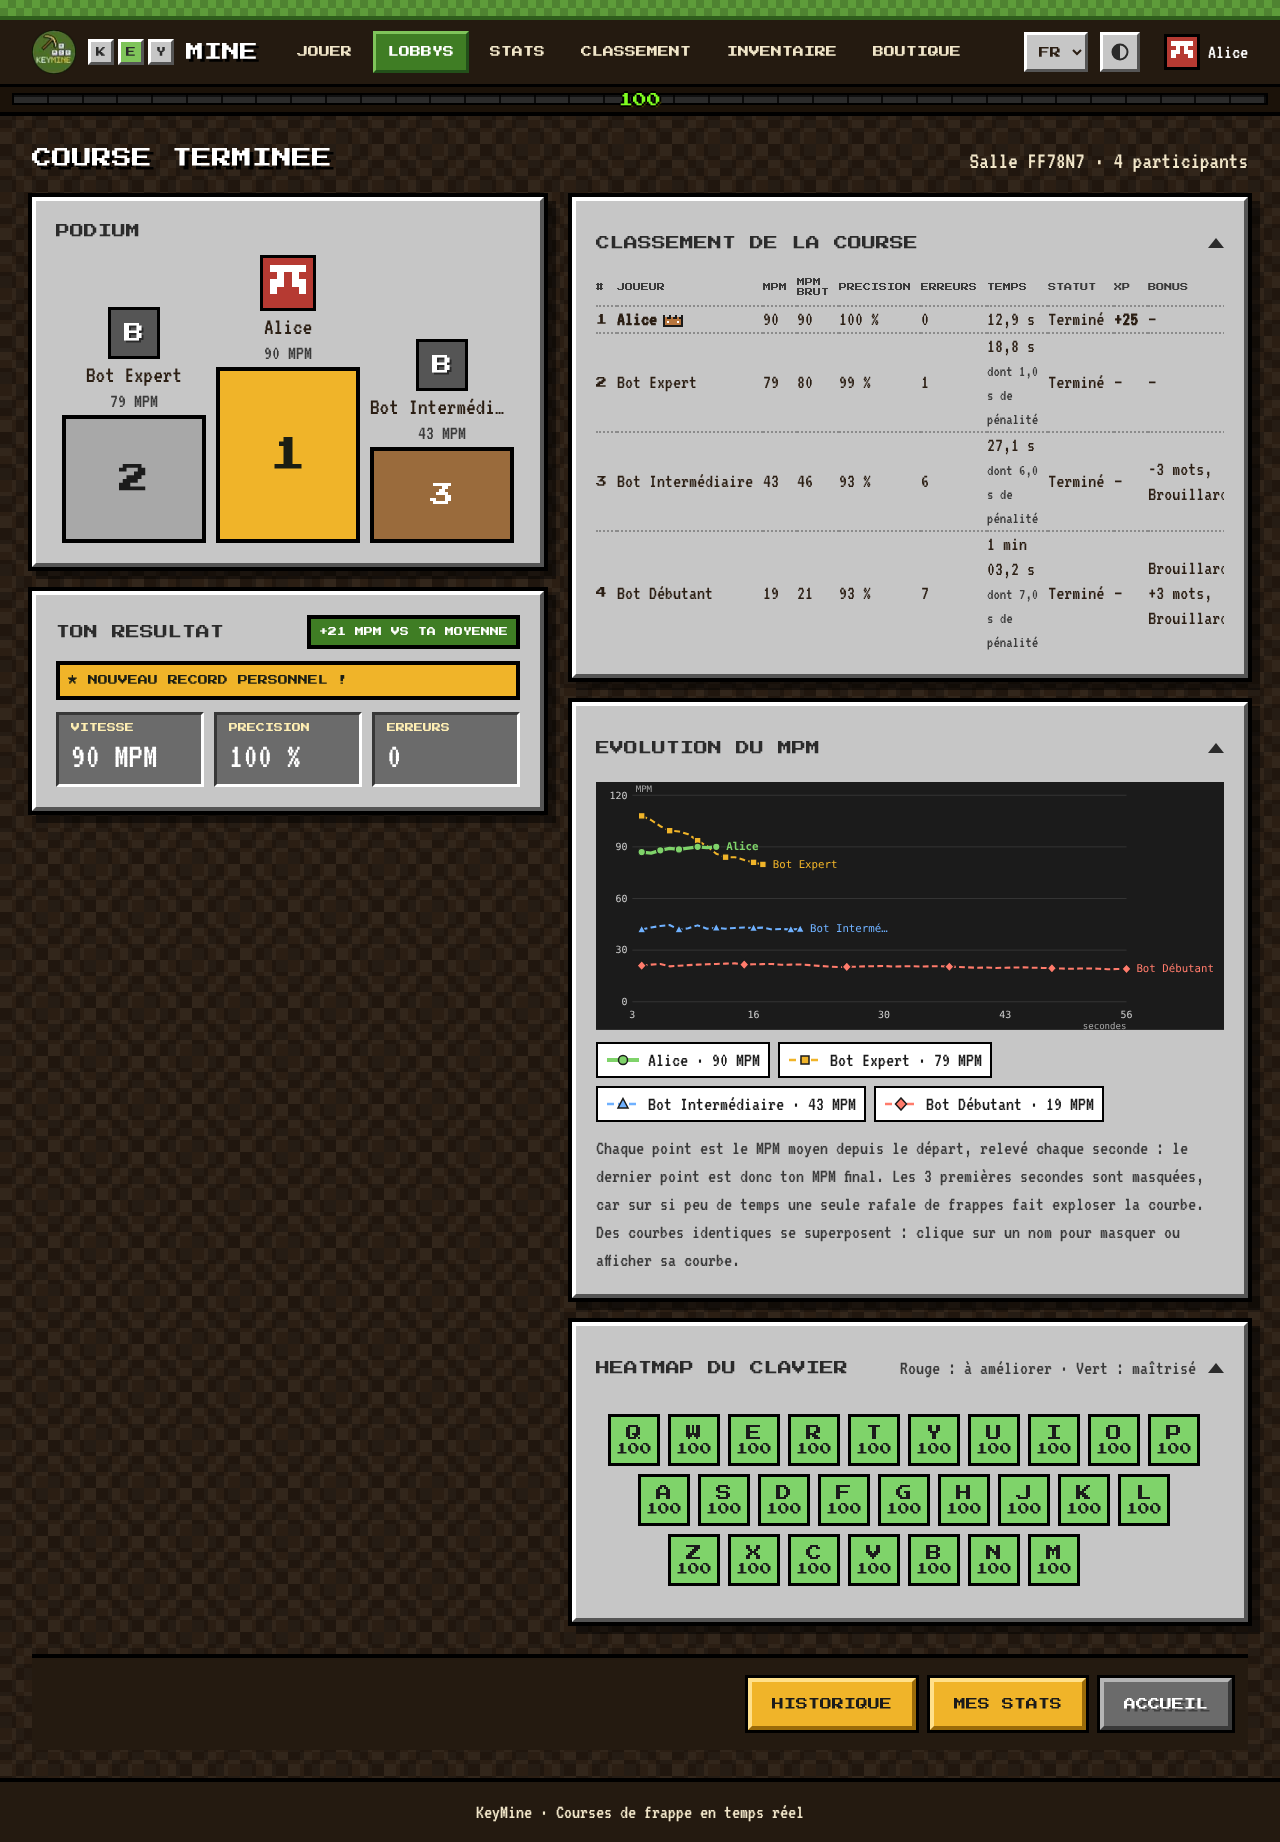
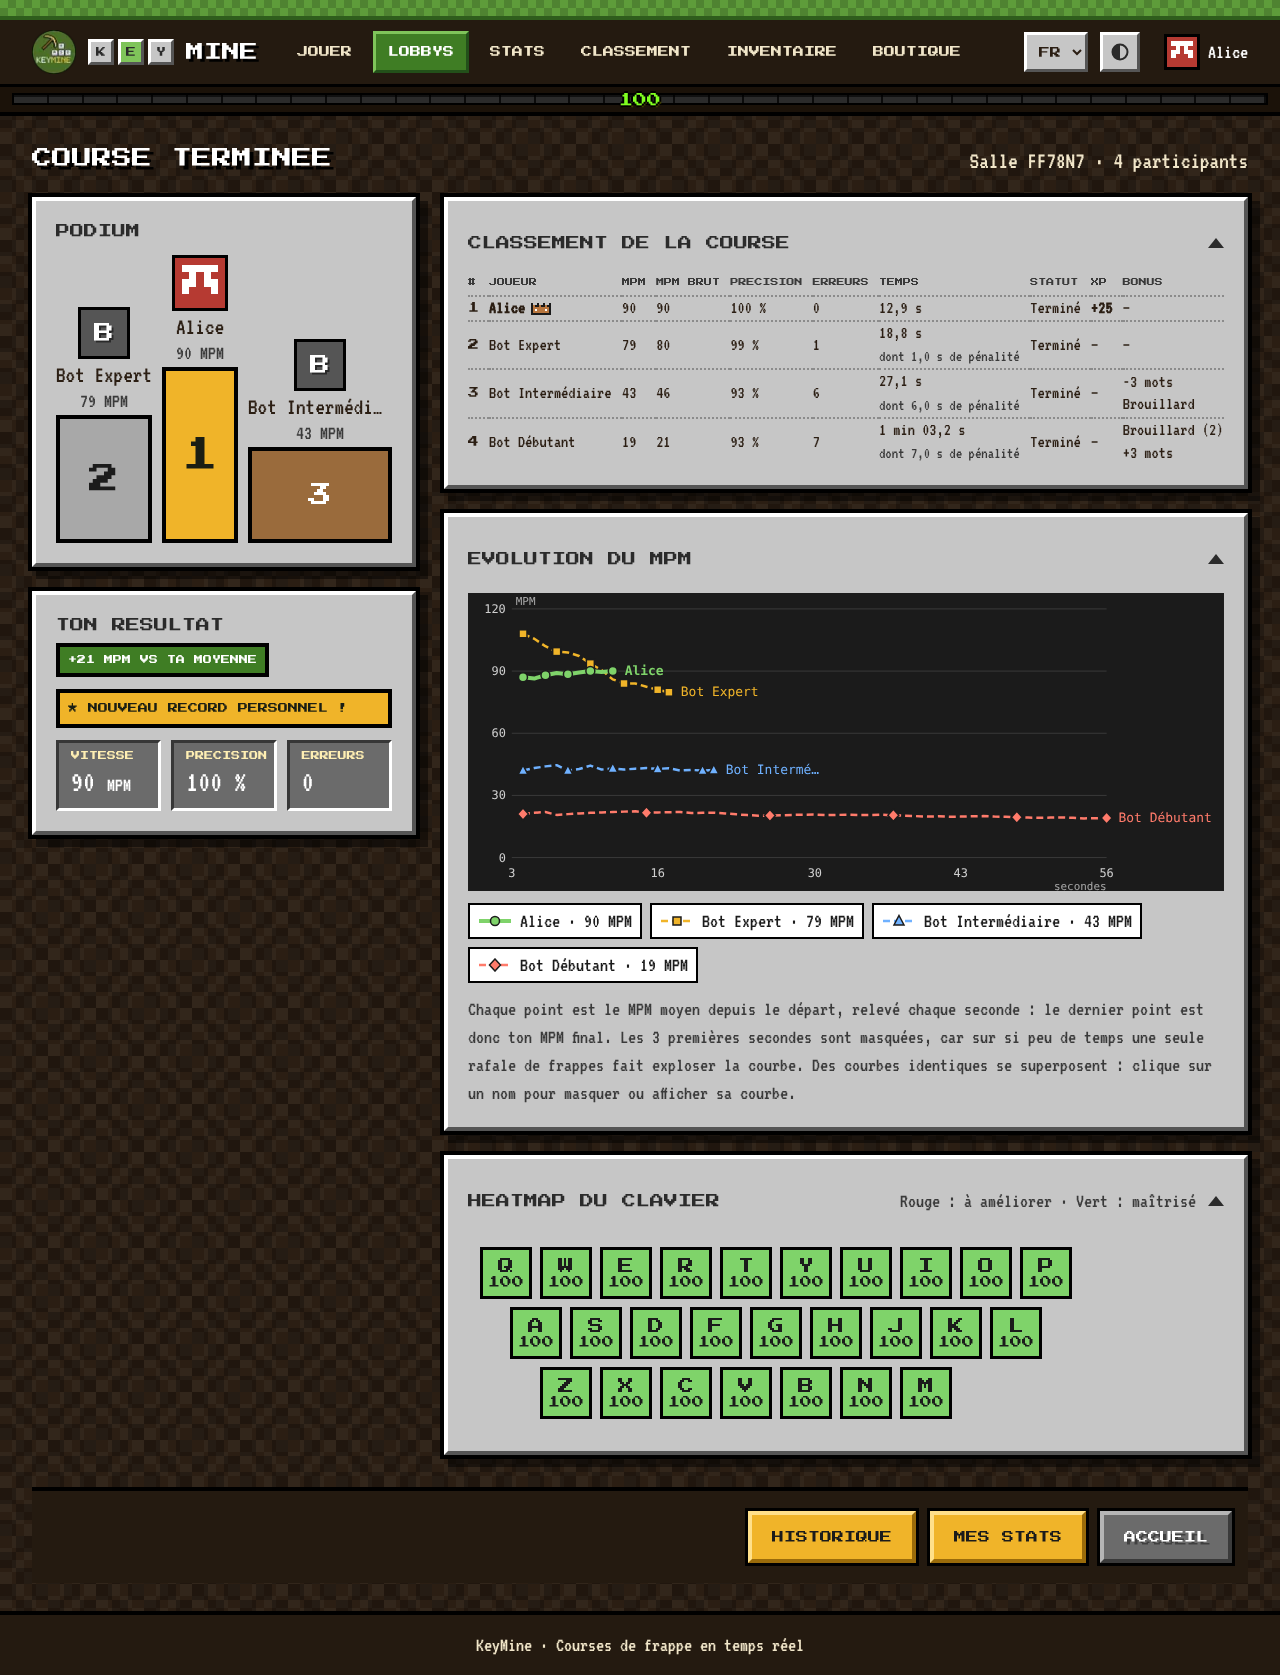
fix: la colonne des bonus n'est plus coupée dans les résultats (bonus regroupés, tableau pleine largeur sous 1280 px)

diff --git a/app/resultats/[code]/page.tsx b/app/resultats/[code]/page.tsx
@@ -11,6 +11,7 @@ import { peekIdentity } from "@/lib/auth/identity";
 import { formatNumber, formatPercent, formatRaceTime } from "@/lib/format";
 import { heatmapRowsFromCounts } from "@/lib/heatmap";
 import { getRequestLang, pageMetadata } from "@/lib/i18n-server";
+import { groupBonuses } from "@/lib/bonus-summary";
 import { translate, type DictKey, type SiteLang } from "@/lib/i18n-dictionary";
 import { and, avg, eq, ne } from "drizzle-orm";
 import { db } from "@/lib/db";
@@ -65,9 +66,13 @@ const BONUS_KEY = {
   fog: "res.bonus_fog",
 } as const satisfies Record<string, DictKey>;
 
-function bonusSummary(lang: SiteLang, row: ResultRow): string {
-  if (row.bonuses.length === 0) return translate(lang, "res.bonus_none");
-  return row.bonuses.map((b) => translate(lang, BONUS_KEY[b.kind])).join(", ");
+/** Bonus reçus, un type par ligne, regroupés : « Brouillard (2) » (RES-02). */
+function bonusLines(lang: SiteLang, row: ResultRow): string[] {
+  const groups = groupBonuses(row.bonuses);
+  if (groups.length === 0) return [translate(lang, "res.bonus_none")];
+  return groups.map(({ kind, count }) =>
+    count > 1 ? `${translate(lang, BONUS_KEY[kind])} (${count})` : translate(lang, BONUS_KEY[kind]),
+  );
 }
 
 function Message({ lang, text }: { lang: SiteLang; text: DictKey }) {
@@ -157,8 +162,10 @@ export default async function ResultatsPage({
         </span>
       </div>
 
-      <div className="flex flex-col gap-7 lg:flex-row lg:items-start">
-        <div className="flex w-full flex-col gap-6 lg:w-[32rem] lg:flex-none">
+      {/* Côte à côte seulement en grand écran : en dessous, le tableau des résultats prend toute la
+          largeur pour que toutes ses colonnes (bonus compris) restent visibles (RES-02). */}
+      <div className="flex flex-col gap-7 xl:flex-row xl:items-start">
+        <div className="flex w-full flex-col gap-6 xl:w-[24rem] xl:flex-none">
           <PixelPanel className="p-5">
             <h2 className="font-pixel mb-3.5 text-sm text-[#2b2b2b]">{t("res.podium")}</h2>
             <ol className="flex h-72 items-end justify-center gap-2.5">
@@ -219,17 +226,21 @@ export default async function ResultatsPage({
               <div className="mt-3 grid grid-cols-3 gap-2.5">
                 <div className="pixel-slot px-3 py-2 leading-none">
                   <div className="font-pixel text-[9px] text-[#ffefb3]">{t("race.speed")}</div>
-                  <div className="mt-1 text-4xl text-white">
-                    {formatNumber(lang, me.wpm)} {t("race.wpm")}
+                  <div className="mt-1 text-4xl whitespace-nowrap text-white xl:text-3xl">
+                    {formatNumber(lang, me.wpm)} <span className="text-xl">{t("race.wpm")}</span>
                   </div>
                 </div>
                 <div className="pixel-slot px-3 py-2 leading-none">
                   <div className="font-pixel text-[9px] text-[#ffefb3]">{t("race.accuracy")}</div>
-                  <div className="mt-1 text-4xl text-white">{formatPercent(lang, me.accuracy)}</div>
+                  <div className="mt-1 text-4xl whitespace-nowrap text-white xl:text-3xl">
+                    {formatPercent(lang, me.accuracy)}
+                  </div>
                 </div>
                 <div className="pixel-slot px-3 py-2 leading-none">
                   <div className="font-pixel text-[9px] text-[#ffefb3]">{t("race.errors")}</div>
-                  <div className="mt-1 text-4xl text-white">{me.errors}</div>
+                  <div className="mt-1 text-4xl whitespace-nowrap text-white xl:text-3xl">
+                    {me.errors}
+                  </div>
                 </div>
               </div>
             </PixelPanel>
@@ -246,7 +257,7 @@ export default async function ResultatsPage({
                 aria-label={t("res.ranking")}
                 tabIndex={0}
               >
-                <table className="w-full min-w-[40rem] border-collapse text-left text-xl leading-tight">
+                <table className="w-full min-w-[40rem] border-collapse text-left text-lg leading-tight">
                   <caption className="sr-only">{t("res.ranking")}</caption>
                   <thead>
                     <tr>
@@ -290,7 +301,7 @@ export default async function ResultatsPage({
                         <td className="pr-2.5">{formatNumber(lang, p.rawWpm)}</td>
                         <td className="pr-2.5">{formatPercent(lang, p.accuracy)}</td>
                         <td className="pr-2.5">{p.errors}</td>
-                        <td className="pr-2.5">
+                        <td className="pr-2.5 whitespace-nowrap">
                           {p.status === "finished" ? formatRaceTime(lang, p.timeMs) : "—"}
                           {p.status === "finished" && p.penaltyMs > 0 && (
                             <span className="block text-base text-[#3a3a3a]">
@@ -300,7 +311,9 @@ export default async function ResultatsPage({
                             </span>
                           )}
                         </td>
-                        <td className="pr-2.5">{t(STATUS_KEY[p.status] ?? "res.status_other")}</td>
+                        <td className="pr-2.5 whitespace-nowrap">
+                          {t(STATUS_KEY[p.status] ?? "res.status_other")}
+                        </td>
                         <td className="pr-2.5 whitespace-nowrap" data-testid="xp-cell">
                           {p.xp === null ? (
                             "—"
@@ -311,7 +324,13 @@ export default async function ResultatsPage({
                             </span>
                           )}
                         </td>
-                        <td>{bonusSummary(lang, p)}</td>
+                        <td className="whitespace-nowrap">
+                          {bonusLines(lang, p).map((line) => (
+                            <span key={line} className="block">
+                              {line}
+                            </span>
+                          ))}
+                        </td>
                       </tr>
                     ))}
                   </tbody>

diff --git a/lib/bonus-summary.ts b/lib/bonus-summary.ts
@@ -1,0 +1,17 @@
+import type { BonusKind, BonusRecord } from "@/lib/race/bonus";
+
+/**
+ * Bonus reçus par un participant, regroupés par type dans l'ordre de leur première apparition
+ * (RES-02) : « Brouillard, +3 mots, Brouillard » devient Brouillard (2) puis +3 mots.
+ */
+export function groupBonuses(
+  bonuses: readonly Pick<BonusRecord, "kind">[],
+): { kind: BonusKind; count: number }[] {
+  const groups: { kind: BonusKind; count: number }[] = [];
+  for (const { kind } of bonuses) {
+    const group = groups.find((g) => g.kind === kind);
+    if (group) group.count += 1;
+    else groups.push({ kind, count: 1 });
+  }
+  return groups;
+}

diff --git a/tests/unit/bonus-summary.test.ts b/tests/unit/bonus-summary.test.ts
@@ -1,0 +1,15 @@
+import { describe, expect, it } from "vitest";
+import { groupBonuses } from "@/lib/bonus-summary";
+
+describe("groupBonuses (RES-02)", () => {
+  it("regroupe les bonus du même type, dans l'ordre de leur première apparition", () => {
+    expect(groupBonuses([{ kind: "fog" }, { kind: "plus_words" }, { kind: "fog" }])).toEqual([
+      { kind: "fog", count: 2 },
+      { kind: "plus_words", count: 1 },
+    ]);
+  });
+
+  it("ne renvoie rien sans bonus", () => {
+    expect(groupBonuses([])).toEqual([]);
+  });
+});

diff --git a/docs/EXIGENCES.md b/docs/EXIGENCES.md
@@ -74,7 +74,7 @@ Statuts : **complet** (fait et vérifié), **partiel** (existe mais incomplet ou
 | BONUS-03 | complet | app/course/[code]/page.tsx, components/race/Track.tsx | tests/e2e/race-flow.spec.ts | Annonce diffusée à tous sur la piste (« Bot Noob reçoit « +3 mots » … ») et bannière chez le joueur ciblé (« BONUS ADVERSE : tu dois taper 3 mots de plus ! »). Vérifié dans un navigateur : le meneur voit les deux, son texte s'allonge et son avancement est conservé (BONUS-04) ; capture d'écran du 14 oct. 2026. |
 | BONUS-04 | complet | lib/race/engine.ts | tests/unit/race-engine.test.ts | Progression et MPM mesurés sur le texte courant du joueur ; bots re-simulés. |
 | RES-01 | complet | app/resultats/[code]/page.tsx | tests/e2e/race.spec.ts, tests/e2e/a11y.spec.ts | Podium des 3 premiers (marches 1-2-3 de hauteurs différentes, avatar, nom, MPM) et tableau de classement affichés à la fin d'une vraie course. Vérifié dans un navigateur et sur capture d'écran (14 oct. 2026), axe sans violation dans les deux thèmes. |
-| RES-02 | complet | app/resultats/[code]/page.tsx, realtime/race-room.ts, lib/results.ts | tests/db/history.test.ts, tests/e2e/race.spec.ts | Résultats enregistrés en base à la fin de chaque course (classement, MPM, précision, erreurs, temps, série du MPM, touches) ; ils sont écrits AVANT l'annonce de fin aux clients (sinon la page des résultats s'ouvrait incomplète : bug trouvé en navigateur, corrigé). |
+| RES-02 | complet | app/resultats/[code]/page.tsx, realtime/race-room.ts, lib/results.ts, lib/bonus-summary.ts | tests/db/history.test.ts, tests/e2e/race.spec.ts, tests/unit/bonus-summary.test.ts, tests/e2e/responsive.spec.ts | Résultats enregistrés en base à la fin de chaque course (classement, MPM, précision, erreurs, temps, série du MPM, touches) ; ils sont écrits AVANT l'annonce de fin aux clients (sinon la page des résultats s'ouvrait incomplète : bug trouvé en navigateur, corrigé). Colonne « bonus reçus » : un type par ligne, regroupé (« Brouillard (2) ») ; sous 1280 px le tableau passe sous le podium pour que toutes les colonnes restent visibles (la colonne bonus était coupée à droite à 1280 px, vu sur capture d'écran le 19 oct. 2026). |
 | RES-03 | complet | components/results/WpmChart.tsx, components/results/chart-config.ts, lib/heatmap.ts | tests/unit/wpm-chart.test.tsx, tests/unit/heatmap.test.ts, tests/unit/race-engine.test.ts, tests/e2e/race.spec.ts | Deux graphiques, repliables : MPM moyen de tous les participants, relevé chaque seconde (SVG accessible ; une couleur + un symbole par participant, nom au bout de la courbe, légende cliquable pour masquer une courbe, 3 premières secondes masquées, explication sous le graphique) et clavier en carte de chaleur. Un bug d'unité (secondes divisées par 1000) écrasait toutes les courbes sur la même verticale : corrigé et testé. |
 | RES-04 | complet | lib/results.ts, app/resultats/[code]/page.tsx | tests/db/history.test.ts | Bandeau « nouveau record personnel » si le MPM dépasse toutes les courses terminées précédentes du compte. |
 | RES-05 | complet | realtime/race-room.ts, lib/results.ts | tests/db/race.test.ts, tests/db/history.test.ts | Résultats et série temporelle du MPM (wpm_series) persistés ; les graphiques se réaffichent depuis la base. |
